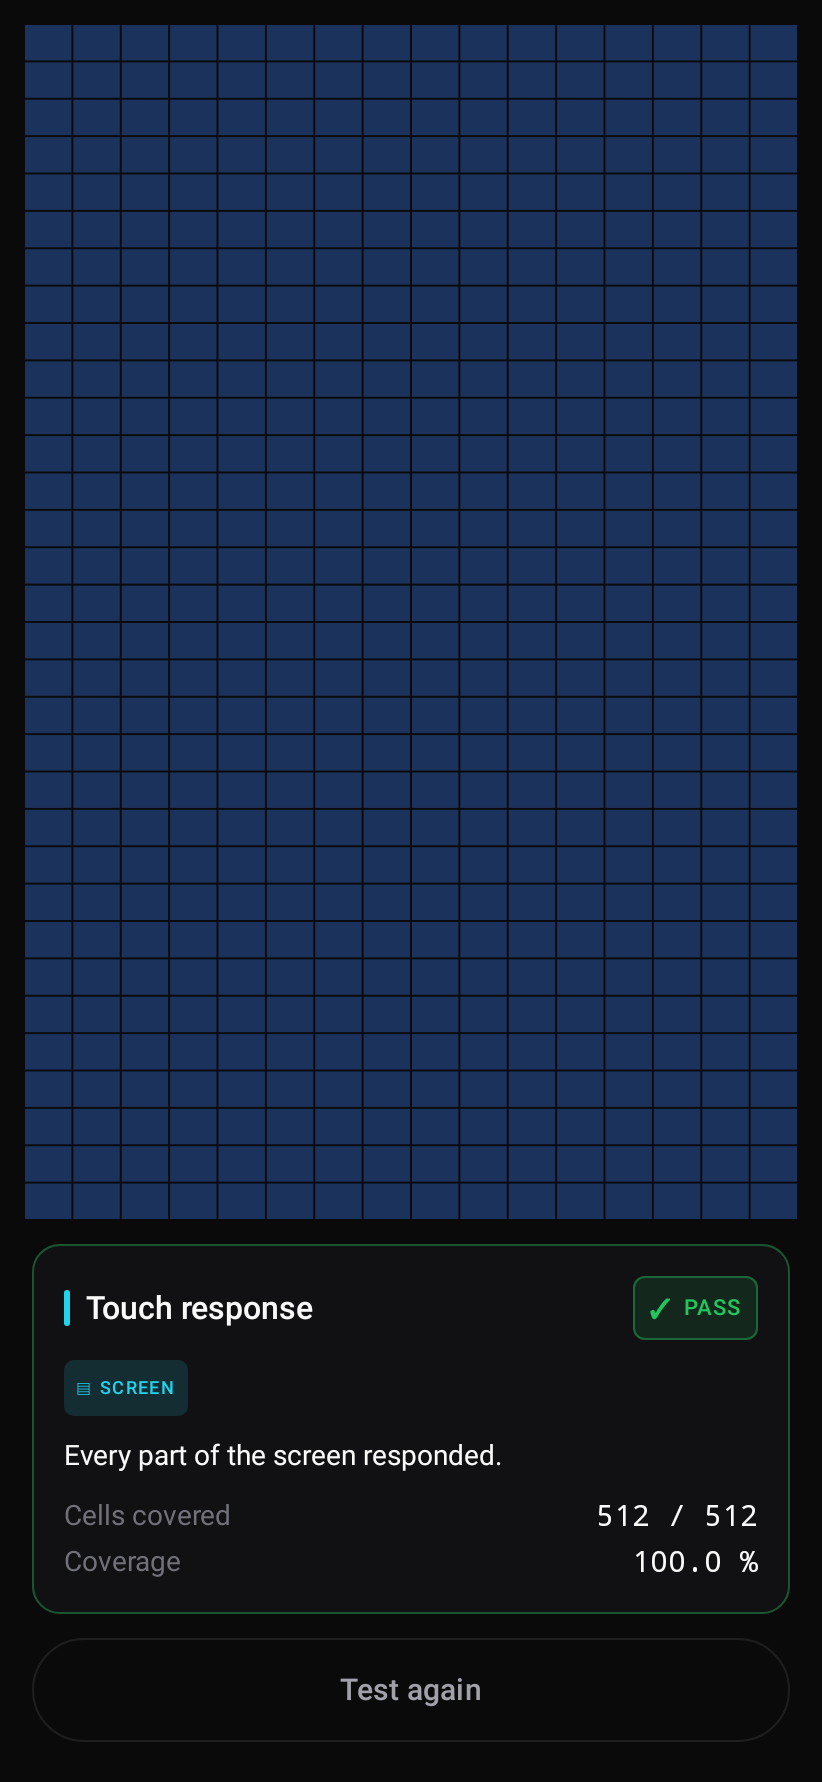
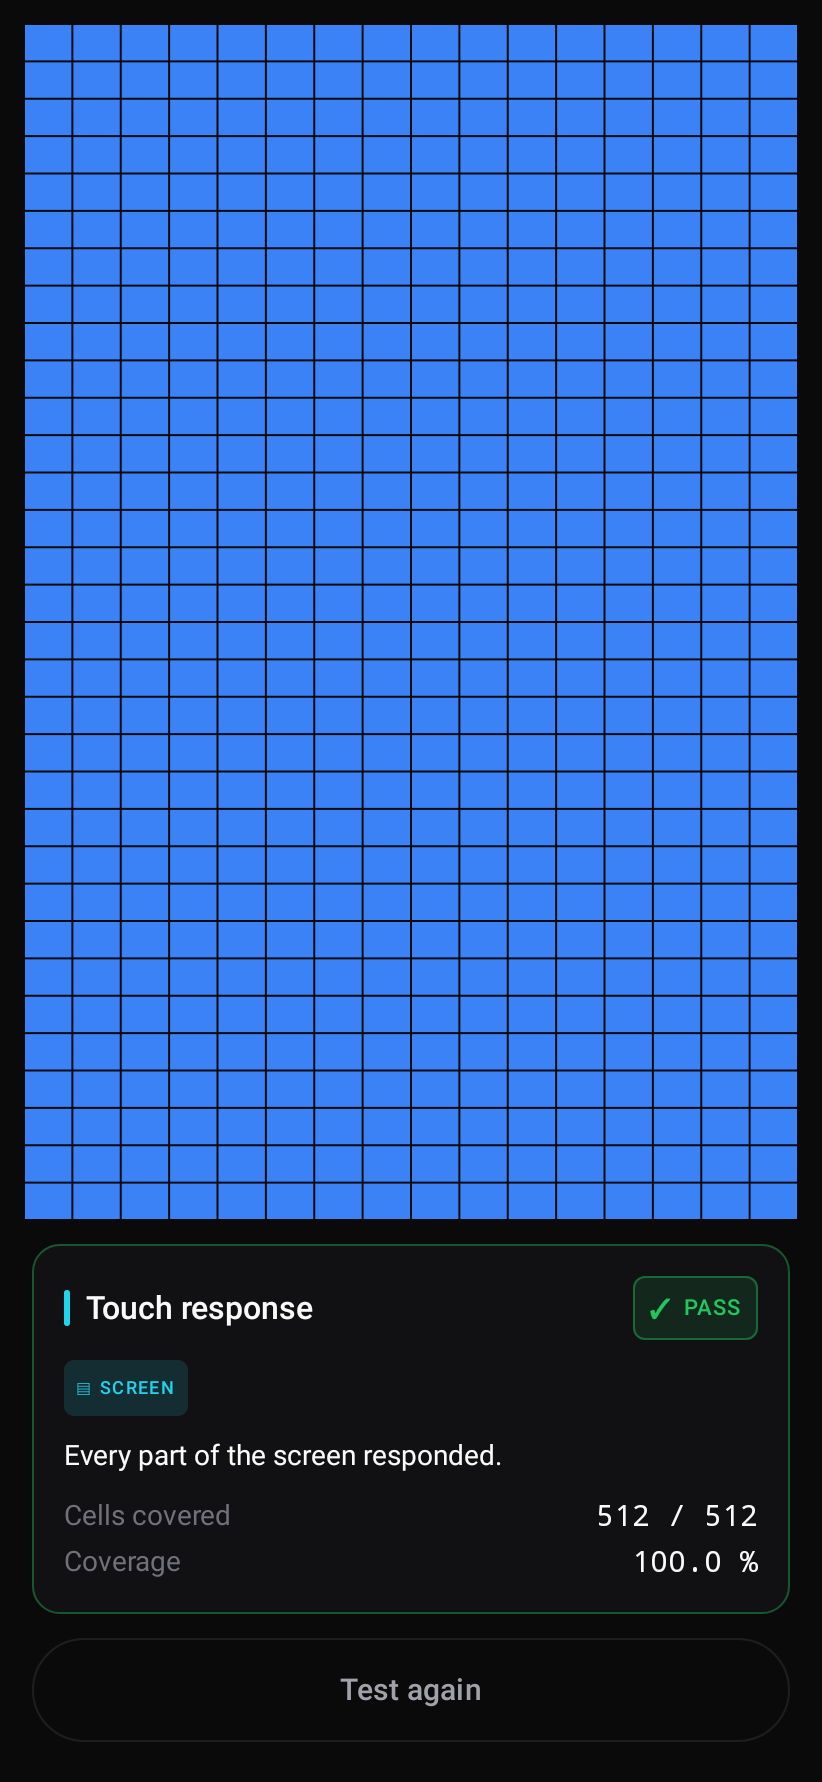
Brighten the touch grid, and count coverage over reachable cells only
Two reported problems, one file.

The covered fill was the accent colour at 34% opacity. On the light theme
that is the pale blue you could barely see, and this fill is the entire
feedback the test gives, so it has to be unmistakable in a shop under bright
light rather than merely present. It is opaque now.

The percentage was dividing by every cell, including the edges Android
reserves for its own swipes. A finished test read "466 / 512, 91%" when 457
was the most anyone could ever reach, so the tester was told they had missed
46 tiles no app can touch, and the top and bottom of a working screen looked
broken. Both the live readout and the result card now count over reachable
cells, so the number reaches 100% when the job is actually done. The
forgiven cells are still disclosed on their own "Not testable" row rather
than vanishing into a rounder figure.

Fixing the readout alone would have missed the screen that was actually
reported: the result card takes its measurements from the evaluator, which
needed the same change.

The reserved bands now say "no need to touch here" inside themselves. The
readout already explained the dimmed edges in a sentence at the top, which
is not where anyone is looking while they sweep the bottom.

Two things the renders caught:

- The top label was drawn underneath the readout card, invisible. It is
  skipped while the test runs, where the card's own caption covers it, and
  drawn once the test is finished and the card is gone.
[…]

diff --git a/feature/touchgrid/src/main/kotlin/com/phoneproof/feature/touchgrid/TouchGridScreen.kt b/feature/touchgrid/src/main/kotlin/com/phoneproof/feature/touchgrid/TouchGridScreen.kt
@@ -44,7 +44,11 @@ import androidx.compose.ui.layout.onGloballyPositioned
 import androidx.compose.ui.layout.onSizeChanged
 import androidx.compose.ui.platform.LocalDensity
 import androidx.compose.ui.platform.LocalLayoutDirection
+import androidx.compose.ui.text.TextStyle
+import androidx.compose.ui.text.drawText
+import androidx.compose.ui.text.rememberTextMeasurer
 import androidx.compose.ui.text.style.TextAlign
+import androidx.compose.ui.unit.sp
 import androidx.compose.ui.unit.IntSize
 import androidx.compose.ui.unit.dp
 import com.phoneproof.checks.touch.Cell
@@ -336,10 +340,18 @@ private fun CoverageCanvas(
     // Hoisted out of the Canvas: the draw lambda is not a composable scope, so it cannot read the
     // palette. Reading them once per composition is also cheaper than once per cell — this loop
     // runs 512 times.
-    val coveredColour = PhoneProofTheme.colors.accent.copy(alpha = 0.34f)
+    // Opaque, not a 34% wash. On the light theme the old value produced the pale blue you could
+    // barely see against a white background — and this fill is the entire feedback the test gives,
+    // so it has to be unmistakable in a shop under bright light rather than merely present.
+    val coveredColour = PhoneProofTheme.colors.accent
     val emptyColour = PhoneProofTheme.colors.gridEmpty
 
     val reservedColour = PhoneProofTheme.colors.gridReserved
+
+    // Deliberately faint — the label explains a band the tester should ignore, so it must not
+    // compete with the grid it sits in.
+    val reservedInk = PhoneProofTheme.colors.textTertiary.copy(alpha = 0.75f)
+    val textMeasurer = rememberTextMeasurer()
 
     Canvas(modifier = modifier.then(gestureModifier)) {
         val cellWidth = size.width / state.spec.columns
@@ -382,6 +394,53 @@ private fun CoverageCanvas(
                 )
             }
         }
+
+        // Labels written into the reserved bands themselves.
+        //
+        // The dimmed edges were being read as dead parts of the screen — the readout explained them
+        // in a sentence at the top, which is not where someone is looking while they sweep the
+        // bottom. Saying it in the band removes the question at the place it gets asked.
+        if (state.reservedCells.isNotEmpty()) {
+            val topRows = (0 until state.spec.rows)
+                .takeWhile { row -> (0 until state.spec.columns).all { Cell(it, row) in state.reservedCells } }
+                .count()
+            val bottomRows = (state.spec.rows - 1 downTo 0)
+                .takeWhile { row -> (0 until state.spec.columns).all { Cell(it, row) in state.reservedCells } }
+                .count()
+
+            val label = textMeasurer.measure(
+                text = "no need to touch here",
+                style = TextStyle(fontSize = 11.sp, color = reservedInk),
+            )
+
+            // The top band is skipped while the test is running, because the readout card sits over
+            // it — the render showed this label drawn underneath the panel, invisible. During the
+            // test the card's own caption explains the dimmed edges; once the test is finished the
+            // card is gone and the label is worth drawing.
+            //
+            // Only drawn where the band is genuinely taller than the text, too. A label crammed into
+            // a one-row strip would overlap the cells it is describing.
+            val topIsVisible = state.phase == TouchTestPhase.FINISHED
+            if (topIsVisible && topRows > 0 && topRows * cellHeight > label.size.height * 1.4f) {
+                drawText(
+                    textLayoutResult = label,
+                    topLeft = Offset(
+                        x = (size.width - label.size.width) / 2f,
+                        y = (topRows * cellHeight - label.size.height) / 2f,
+                    ),
+                )
+            }
+            if (bottomRows > 0 && bottomRows * cellHeight > label.size.height * 1.4f) {
+                val bandTop = size.height - bottomRows * cellHeight
+                drawText(
+                    textLayoutResult = label,
+                    topLeft = Offset(
+                        x = (size.width - label.size.width) / 2f,
+                        y = bandTop + (bottomRows * cellHeight - label.size.height) / 2f,
+                    ),
+                )
+            }
+        }
     }
 }
 
@@ -407,7 +466,7 @@ private fun Readout(state: TouchGridUiState) {
         )
         Row(horizontalArrangement = Arrangement.spacedBy(10.dp)) {
             Text(
-                text = "${state.touchedCount} / ${state.cellCount}",
+                text = "${state.testableTouchedCount} / ${state.testableCellCount}",
                 style = PhoneProofType.NumericLarge,
                 color = PhoneProofTheme.colors.textPrimary,
             )

diff --git a/checks/touch/src/test/kotlin/com/phoneproof/checks/touch/TouchCoverageEvaluatorTest.kt b/checks/touch/src/test/kotlin/com/phoneproof/checks/touch/TouchCoverageEvaluatorTest.kt
@@ -209,6 +209,33 @@ class TouchCoverageEvaluatorTest {
     }
 
     @Test
+    fun `the report counts coverage over reachable cells, not every cell`() {
+        // The realme reading that prompted this: 3 cells under the gesture strip, 509 covered out of
+        // 512. Reporting "509 / 512, 99.4%" told the buyer they had missed three tiles and made a
+        // flawless screen look imperfect, which is what the "Not testable" row exists to prevent.
+        val untouched = setOf(Cell(0, 0), Cell(1, 0), Cell(2, 0))
+        val result = TouchCoverageEvaluator.evaluate(coverage(untouched, topStrip))
+
+        assertThat(result.measurements.first { it.label == "Cells covered" }.display)
+            .isEqualTo("${spec.cellCount - topStrip.size} / ${spec.cellCount - topStrip.size}")
+        assertThat(result.measurements.first { it.label == "Coverage" }.display)
+            .isEqualTo("100.0 %")
+        // The forgiven cells are still disclosed rather than vanishing into a rounder number.
+        assertThat(result.measurements.first { it.label == "Not testable" }.display)
+            .isEqualTo("3 cells")
+    }
+
+    @Test
+    fun `with nothing reserved the count is unchanged`() {
+        // Guards the common case: a phone that reserves nothing must still report every cell.
+        val result = TouchCoverageEvaluator.evaluate(coverage(emptySet(), emptySet()))
+
+        assertThat(result.measurements.first { it.label == "Cells covered" }.display)
+            .isEqualTo("${spec.cellCount} / ${spec.cellCount}")
+        assertThat(result.measurements.map { it.label }).doesNotContain("Not testable")
+    }
+
+    @Test
     fun `check id is stable so saved reports keep comparing correctly`() {
         val result = TouchCoverageEvaluator.evaluate(coverage(emptySet()))
         assertThat(result.id).isEqualTo("screen.touch_coverage")

diff --git a/checks/touch/src/main/kotlin/com/phoneproof/checks/touch/TouchCoverageEvaluator.kt b/checks/touch/src/main/kotlin/com/phoneproof/checks/touch/TouchCoverageEvaluator.kt
@@ -36,10 +36,19 @@ object TouchCoverageEvaluator {
     )
 
     fun evaluate(coverage: TouchCoverage): CheckResult {
-        val percent = (coverage.coverageRatio * 100f)
+        // Counted over reachable cells, matching the live readout. Reporting 509 / 512 and 99.4%
+        // when 509 was every cell anyone could reach told the buyer they had missed three tiles and
+        // made a flawless screen look imperfect — the exact impression the "Not testable" row below
+        // exists to prevent. The reserved cells are disclosed on their own line instead.
+        val percent = (coverage.testableCoverageRatio * 100f)
         val untestable = coverage.untestedReservedCells.size
         val measurements = buildList {
-            add(Measurement("Cells covered", "${coverage.touchedCount} / ${coverage.cellCount}"))
+            add(
+                Measurement(
+                    "Cells covered",
+                    "${coverage.testableTouchedCount} / ${coverage.testableCellCount}",
+                ),
+            )
             add(Measurement("Coverage", String.format("%.1f", percent), "%"))
             // Disclosed on every outcome, including FAIL and PASS, so the report always states the
             // limits of what was actually measured rather than only when it flatters the phone.

diff --git a/feature/touchgrid/src/main/kotlin/com/phoneproof/feature/touchgrid/TouchGridState.kt b/feature/touchgrid/src/main/kotlin/com/phoneproof/feature/touchgrid/TouchGridState.kt
@@ -44,8 +44,21 @@ data class TouchGridUiState(
 ) {
     val cellCount: Int get() = spec.cellCount
     val touchedCount: Int get() = touchedCells.size
+    /** Over every cell, reachable or not. Kept for anything that wants the raw figure. */
     val coverageRatio: Float get() = touchedCount.toFloat() / cellCount.toFloat()
-    val coveragePercent: Int get() = (coverageRatio * 100f).toInt()
+
+    /** Covered cells among those that can actually be reached. */
+    val testableTouchedCount: Int get() = (touchedCells - reservedCells).size
+
+    /**
+     * The percentage the readout shows, over reachable cells only.
+     *
+     * It used to divide by every cell, so a finished test read "466 / 512, 91%" when 457 was the most
+     * anyone could ever reach. That told the tester they had missed 46 tiles no app can touch, and
+     * made the top and bottom of a perfectly good screen look broken. It reaches 100 when the job is
+     * actually done.
+     */
+    val coveragePercent: Int get() = (testableCoverageRatio * 100f).toInt()
 
     /** Cells the tester can fairly be asked to reach. Mirrors `TouchCoverage.testableCellCount`. */
     val testableCellCount: Int get() = cellCount - reservedCells.size

diff --git a/checks/touch/src/main/kotlin/com/phoneproof/checks/touch/TouchCoverage.kt b/checks/touch/src/main/kotlin/com/phoneproof/checks/touch/TouchCoverage.kt
@@ -119,6 +119,9 @@ data class TouchCoverage(
     /** Cells the tester can fairly be expected to reach. */
     val testableCellCount: Int get() = cellCount - reservedCells.size
 
+    /** Covered cells among the reachable ones. What the report counts. */
+    val testableTouchedCount: Int get() = (touchedCells - reservedCells).size
+
     /**
      * Coverage over the cells that can actually be reached, which is what the judging threshold
      * has to be measured against. Using the raw ratio would make a 100% target unreachable on a
